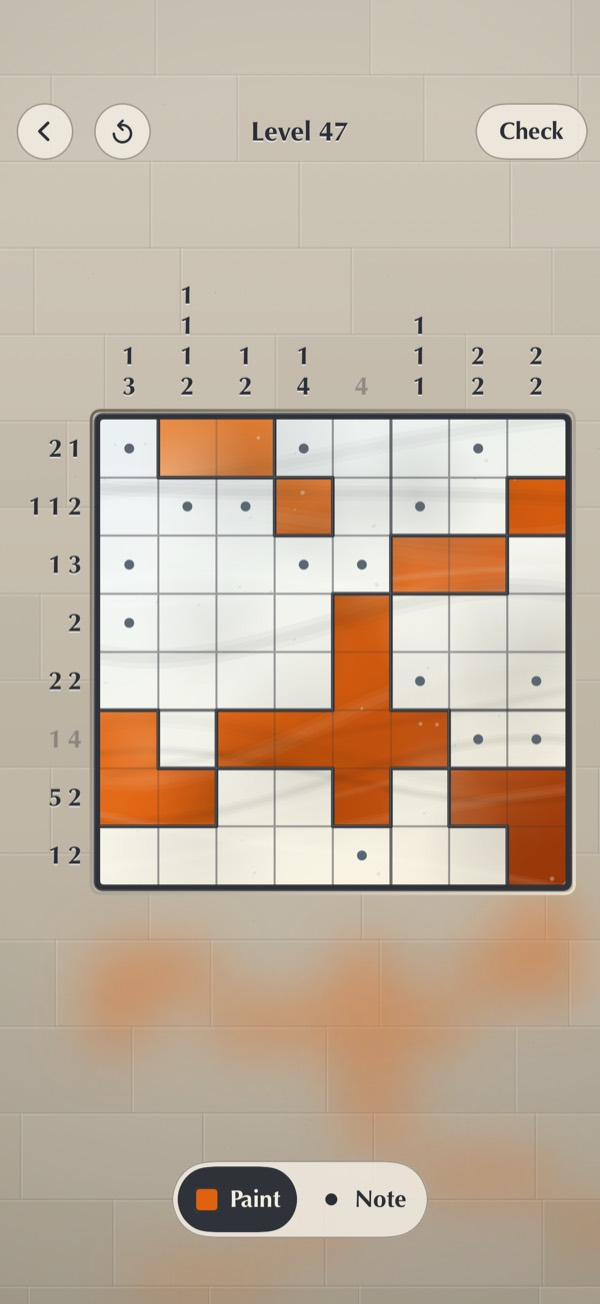
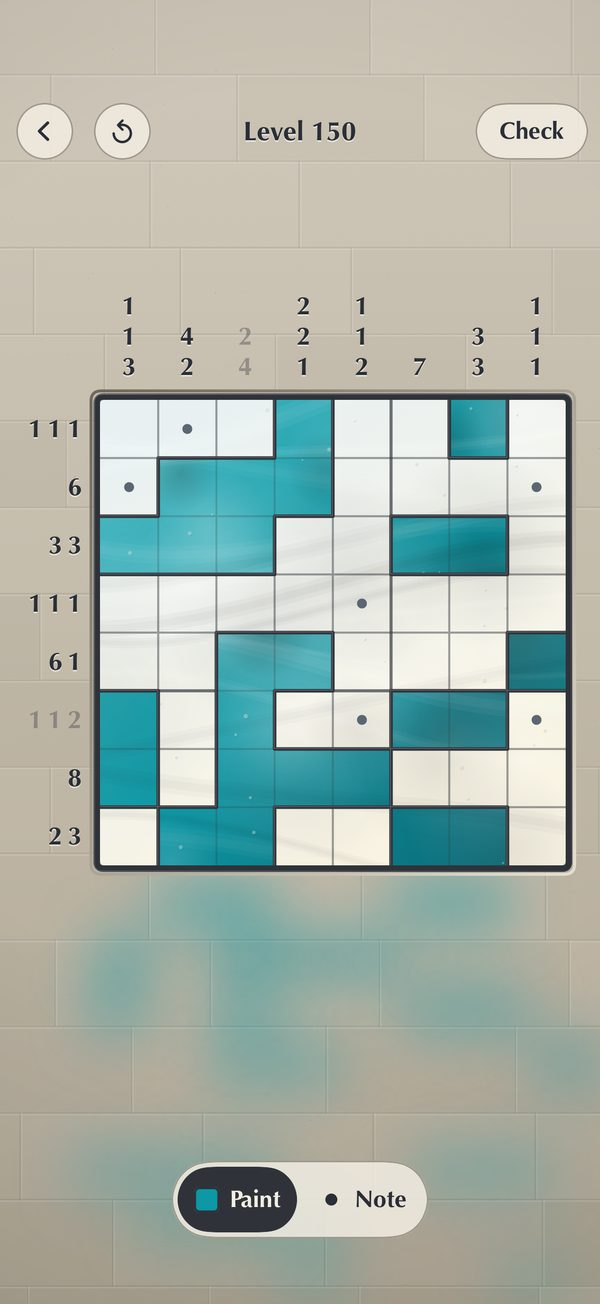
Web: al foc, el Tiny Apogeu i les Llançadores en lloc del Traç; tots els noms es veuen en pantalla petita; captures noves del Vitrall
Els noms tenen fila pròpia per sota de 1040 px i passen a dues o tres files al mòbil, on en quedaven
tres o quatre fora; entre 540 i 930 px la pàgina es desbordava de costat. Al mòbil, en baixar, la
marca marxa i només queden els noms.

diff --git a/assets/app.js b/assets/app.js
@@ -96,7 +96,7 @@ const I18N = {
     "vitrall.f3": "Make one to measure: its size and how hard, up to where you've reached.",
     "vitrall.f4": "Day and night, the way your phone is set.",
     "vitrall.caption": "From the game itself. In dark mode, the window glows.",
-    "vitrall.shot.alt": "A logic puzzle on a stone wall: numbers beside a grid of panes, some lit in orange",
+    "vitrall.shot.alt": "A logic puzzle on a stone wall: numbers beside a grid of panes, some of them lit",
     "planxa.tagline": "A griddle that waits for you.",
     "planxa.body": "Turn-based strategy, with burgers. A late-night diner where time only moves when you do: plan the rush and serve everyone the way they asked. It's a puzzle, not a race, so think for as long as you like, or put it down and come back tomorrow.",
     "planxa.f1": "One stroke of your thumb along a row is a single turn.",
@@ -159,7 +159,8 @@ const I18N = {
 
     "brewing.title": "Brewing",
     "brewing.lede": "Being made now, in the same cup.",
-    "brew.trac": "One green line.",
+    "brew.tiny": "A small space station, and its first tourists.",
+    "brew.llancadores": "People, ships, and the way to the Moon.",
 
     "foot.support": "Questions, bugs, ideas. Write to us and a person answers.",
     "foot.privacy": "Privacy",
@@ -269,7 +270,7 @@ const I18N = {
     "vitrall.f3": "Fes-te'n una a mida: la mida i la dificultat, fins on hagis arribat.",
     "vitrall.f4": "De dia i de nit, com tinguis el telèfon.",
     "vitrall.caption": "Del joc mateix. En mode fosc, la finestra brilla.",
-    "vitrall.shot.alt": "Un trencaclosques de lògica en una paret de pedra: números al costat d'una quadrícula de vidres, alguns encesos de color taronja",
+    "vitrall.shot.alt": "Un trencaclosques de lògica en una paret de pedra: números al costat d'una quadrícula de vidres, alguns d'encesos",
     "planxa.tagline": "Una planxa que t'espera.",
     "planxa.body": "Estratègia per torns, amb hamburgueses. Una cafeteria de nit on el temps només passa si tu actues: planifica l'hora punta i serveix cadascú tal com ho vol. És un trencaclosques, no una cursa, així que pensa tant com vulguis, o deixa-ho i torna-hi demà.",
     "planxa.f1": "Una passada de dit al llarg d'una fila és un sol torn.",
@@ -332,7 +333,8 @@ const I18N = {
 
     "brewing.title": "Al foc",
     "brewing.lede": "S'estan fent ara, a la mateixa tassa.",
-    "brew.trac": "Una sola línia verda.",
+    "brew.tiny": "Una estació espacial petita, i els seus primers turistes.",
+    "brew.llancadores": "Gent, naus, i el camí fins a la Lluna.",
 
     "foot.support": "Dubtes, errors, idees. Escriu-nos i et contesta una persona.",
     "foot.privacy": "Privadesa",

diff --git a/assets/style.css b/assets/style.css
@@ -120,19 +120,29 @@ a:hover { color: var(--terracotta); }
 @media (max-width: 560px) { .nav a { font-size: .88rem; } }
 /* When the row gets tight, the promise link is the first to go. */
 @media (max-width: 720px) { .nav a[href="#promise"] { display: none; } }
-/* The app names and the language don't fit beside the brand on a phone: the
-   names get a row of their own, under the brand and the CA/EN button. Nine names
-   don't fit in that row either, so it slides, and fades at the edge to say so. */
-@media (max-width: 540px) {
-  html { scroll-padding-top: 112px; }
+/* The app names don't fit beside the brand and the language any more: from here
+   down they get a row of their own, under them, and on a phone as many rows as it
+   takes, so that every name can be seen. */
+@media (max-width: 1040px) {
+  html { scroll-padding-top: 108px; }
   .head { flex-wrap: wrap; row-gap: .4rem; padding-bottom: .6rem; }
-  .nav {
-    order: 3; flex-basis: 100%; min-width: 0; margin-left: 0; padding-right: 1.5rem;
-    overflow-x: auto; scrollbar-width: none;
-    -webkit-mask-image: linear-gradient(to right, #000 calc(100% - 1.5rem), transparent);
-            mask-image: linear-gradient(to right, #000 calc(100% - 1.5rem), transparent);
-  }
-  .nav::-webkit-scrollbar { display: none; }
+  .nav { order: 3; flex-basis: 100%; min-width: 0; margin-left: 0; flex-wrap: wrap; row-gap: .1rem; }
+  .nav a { padding-block: .2rem; }
+}
+/* On a phone that would be a lot to keep on screen, so the brand scrolls away and
+   only the names stay: -49px is the brand's row, padding and gap included. */
+@media (max-width: 540px) {
+  html { scroll-padding-top: 88px; }
+  .head { top: -49px; background: color-mix(in srgb, var(--bg) 95%, transparent); }
+  .nav { column-gap: .85rem; }
+}
+@media (max-width: 340px) {
+  html { scroll-padding-top: 118px; }
+}
+/* A phone on its side or a very small one: a header this tall would leave no room. */
+@media (max-height: 640px) {
+  html { scroll-padding-top: 1rem; }
+  .head { position: static; }
 }
 
 .lang {

diff --git a/index.html b/index.html
@@ -149,7 +149,7 @@
           <picture>
             <source srcset="assets/vitrall-nit.jpg" media="(prefers-color-scheme: dark)">
             <img src="assets/vitrall-dia.jpg" width="600" height="1304" loading="lazy"
-                 alt="A logic puzzle on a stone wall: numbers beside a grid of panes, some lit in orange"
+                 alt="A logic puzzle on a stone wall: numbers beside a grid of panes, some of them lit"
                  data-i18n-alt="vitrall.shot.alt">
           </picture>
         </div>
@@ -730,8 +730,12 @@
     <p class="lede" data-i18n="brewing.lede">Being made now, in the same cup.</p>
     <ul class="brew">
       <li>
-        <svg viewBox="0 0 60 60" aria-hidden="true" class="brew__mark"><path d="M10 46c10-4 12-16 20-20s16 2 20-12" fill="none" stroke="var(--mint)" stroke-width="4.5" stroke-linecap="round"/><circle cx="10" cy="46" r="4" fill="var(--gold)"/></svg>
-        <h3>Traç</h3><p data-i18n="brew.trac">One green line.</p>
+        <svg viewBox="0 0 60 60" aria-hidden="true" class="brew__mark"><circle cx="30" cy="30" r="17" fill="none" stroke="var(--mint)" stroke-width="4.5"/><path d="M30 13v34M13 30h34" fill="none" stroke="var(--mint)" stroke-width="3" stroke-linecap="round"/><circle cx="30" cy="30" r="6.5" fill="var(--gold)"/><circle cx="47" cy="30" r="3.6" fill="var(--terracotta)"/></svg>
+        <h3>Tiny Apogeu</h3><p data-i18n="brew.tiny">A small space station, and its first tourists.</p>
+      </li>
+      <li>
+        <svg viewBox="0 0 60 60" aria-hidden="true" class="brew__mark"><path d="M11 49C16 28 28 15 49 11" fill="none" stroke="var(--mint)" stroke-width="4.5" stroke-linecap="round" stroke-dasharray="1 9"/><circle cx="11" cy="49" r="6" fill="var(--mint)"/><circle cx="49" cy="11" r="4.5" fill="var(--gold)"/><path d="M40 16L25 21l6 3 3 6z" fill="var(--terracotta)"/></svg>
+        <h3>Llançadores</h3><p data-i18n="brew.llancadores">People, ships, and the way to the Moon.</p>
       </li>
     </ul>
   </section>
